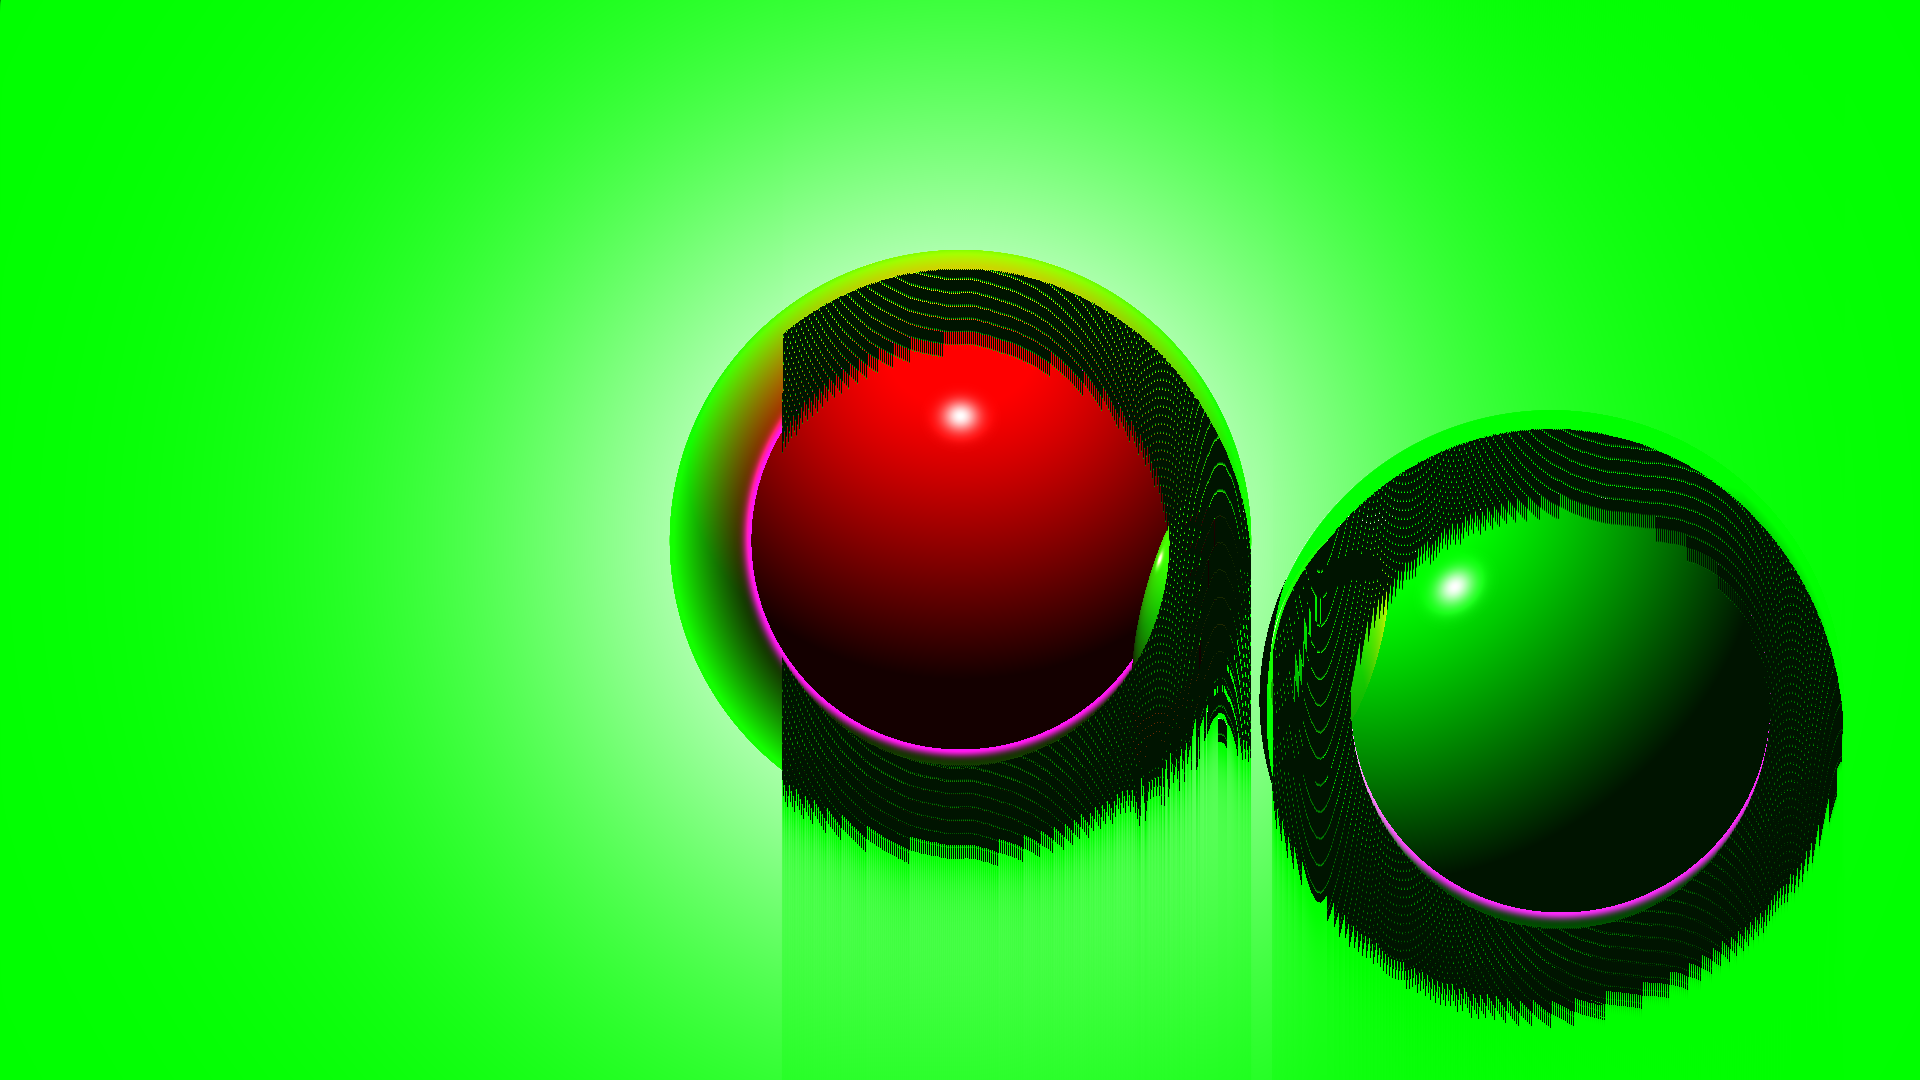
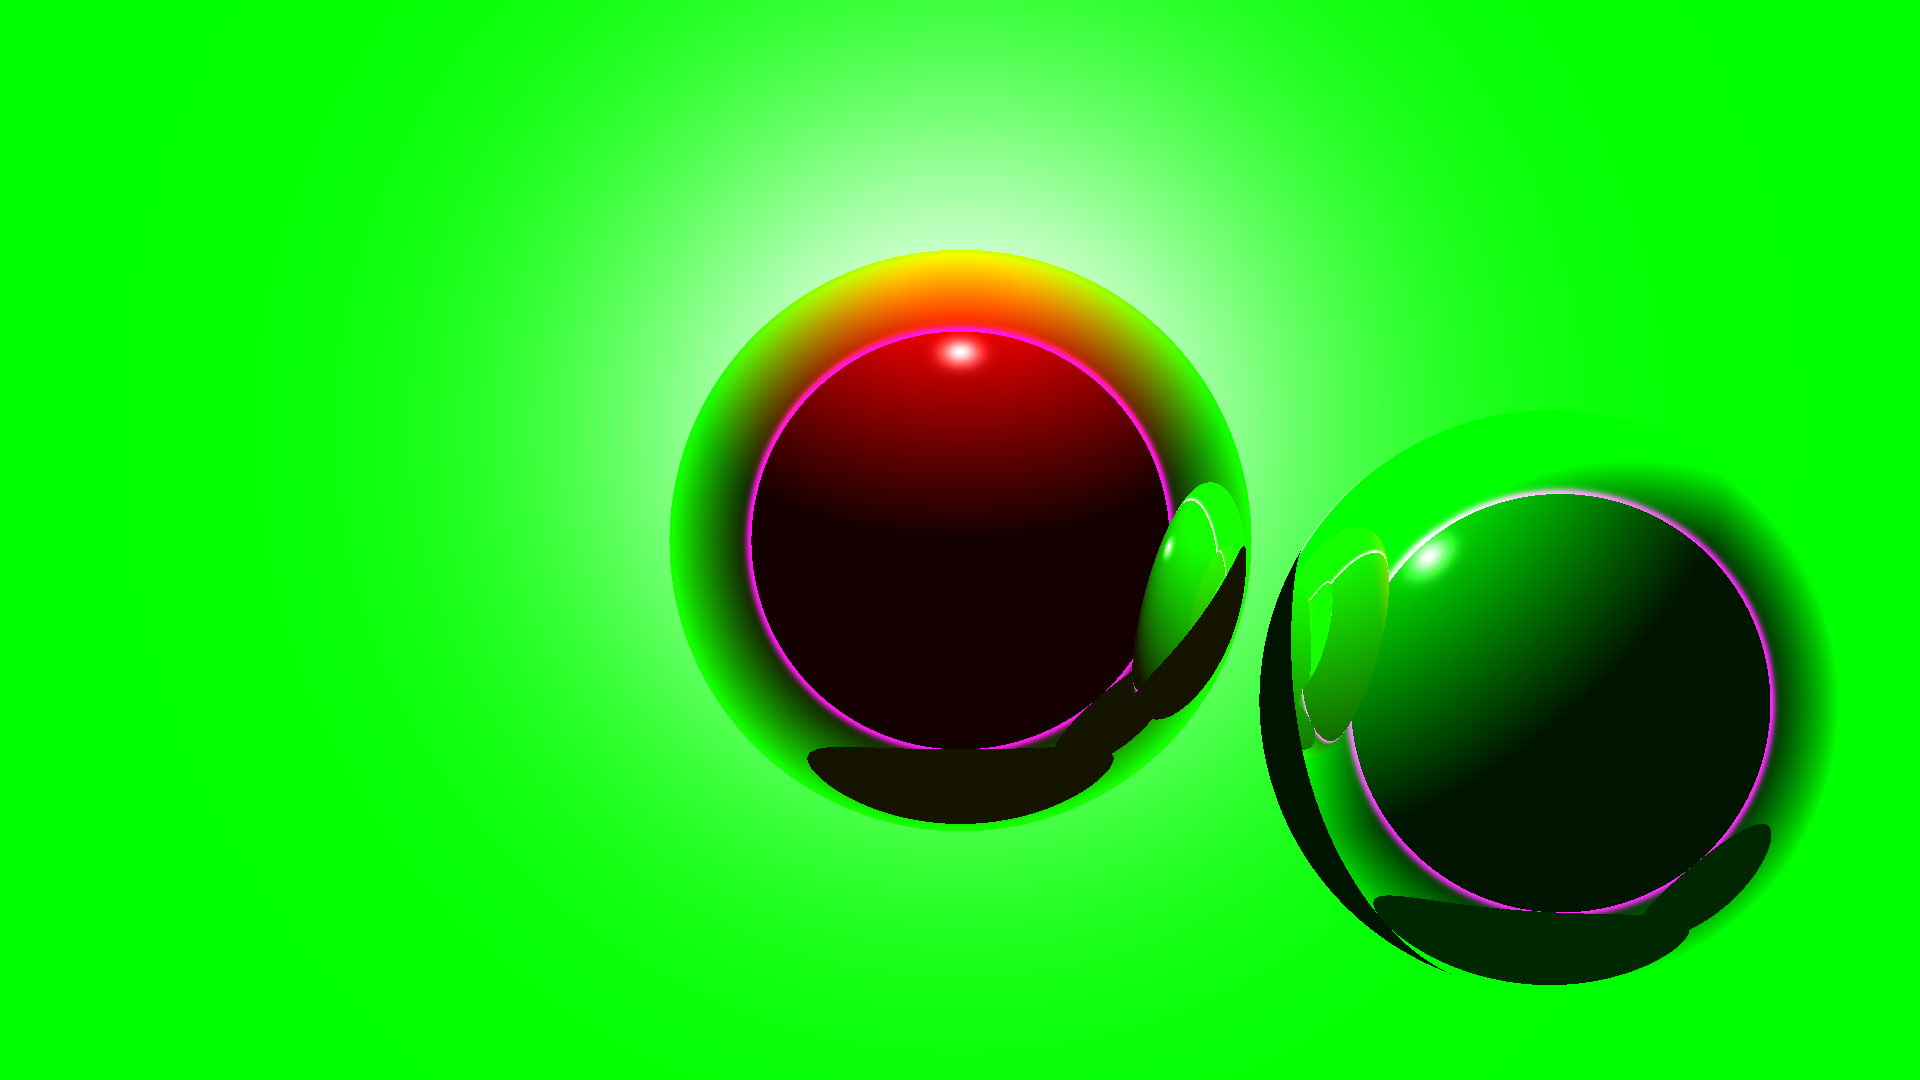
Mejoras

diff --git a/src/core/Trazador.java b/src/core/Trazador.java
@@ -98,11 +98,11 @@ public class Trazador {
 		objetos.add(new Esfera(10, rayoPrimario4.getPunto(1.1), new Color(255, 0, 0),0.2));
 		Vector3d jarl = new Vector3d(rayoPrimario5.getD());
 		jarl.negate();
-		objetos.add(new Plano(rayoPrimario5.getPunto(1.1), jarl, new Color(0,255,0),0.5));
+		objetos.add(new Plano(rayoPrimario5.getPunto(3), jarl, new Color(0,255,0),0.5));
 		//objetos.add(new Plano(new Point3d(20,30,10), new Vector3d(-1,0,-1), new Color(0,255,0),0.5));
 		//objetos.add(new Plano(new Point3d(20,30,10), new Vector3d(0,-1,-1), new Color(0,0,255),0.5));
 		
-		luz = new Luz(rayoPrimario2.getPunto(1), 1);
+		luz = new Luz(rayoPrimario2.getPunto(1.05), 1);
 		//luz = new Luz(camara.getE(),1);
 		
 		
@@ -127,7 +127,7 @@ public class Trazador {
 				// Disparamos el rayo primario a la escena y se comprueba si
 				// intersecta
 
-				if(i==1083&&j==372){
+				if(i==1226&&j==608){
 					System.out.println("melon");
 				}
 				Color col = trazarRayo(rayoPrimario,0, null);
@@ -261,9 +261,10 @@ public class Trazador {
 					Rayo rayoReflejado = new Rayo(calcularReflejado(rayoPrimario.getD(),N),puntoColisionFinal);
 					recursion += 1;
 					Color nuevo = trazarRayo(rayoReflejado,recursion, objetoCol);
+					nuevo.aplicarIntensidad(objetoCol.getIndiceRefraccion());
 					cl = cl.suma(nuevo);
 				}				
-				cl.normalizar();
+				//cl.normalizar();
 				return cl;
 				
 			}

diff --git a/src/core/Plano.java b/src/core/Plano.java
@@ -20,7 +20,7 @@ public class Plano extends Objeto{
 
 	public Point3d interseccion(Rayo r) {
 		Vector3d d = r.getD();
-		Point3d p = this.p;
+		Point3d p = new Point3d(this.p);
 		double inf = d.dot(this.n);
 		if (inf < 0){
 			/*
